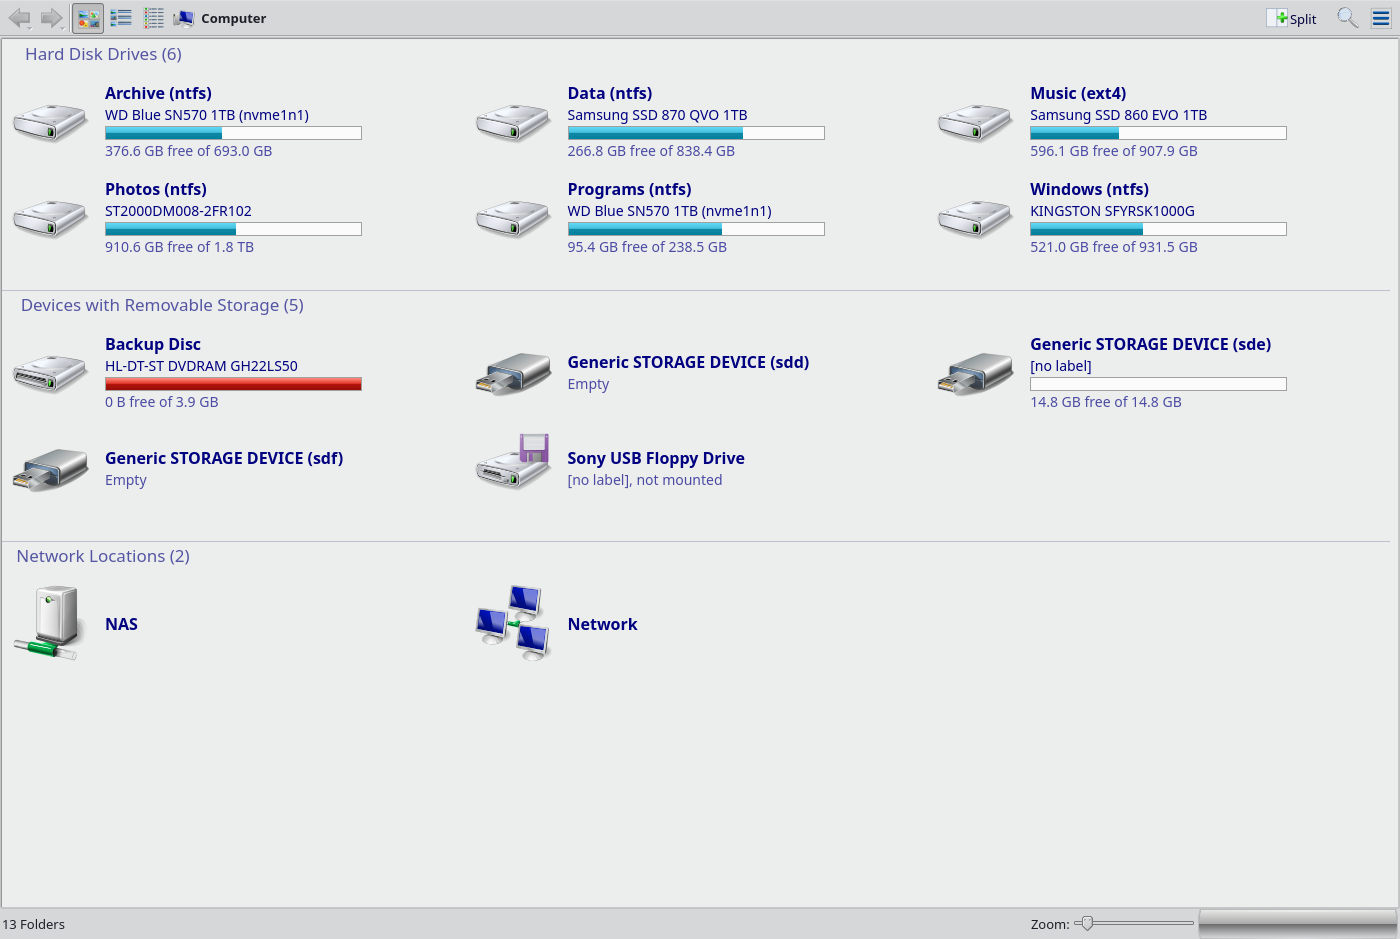
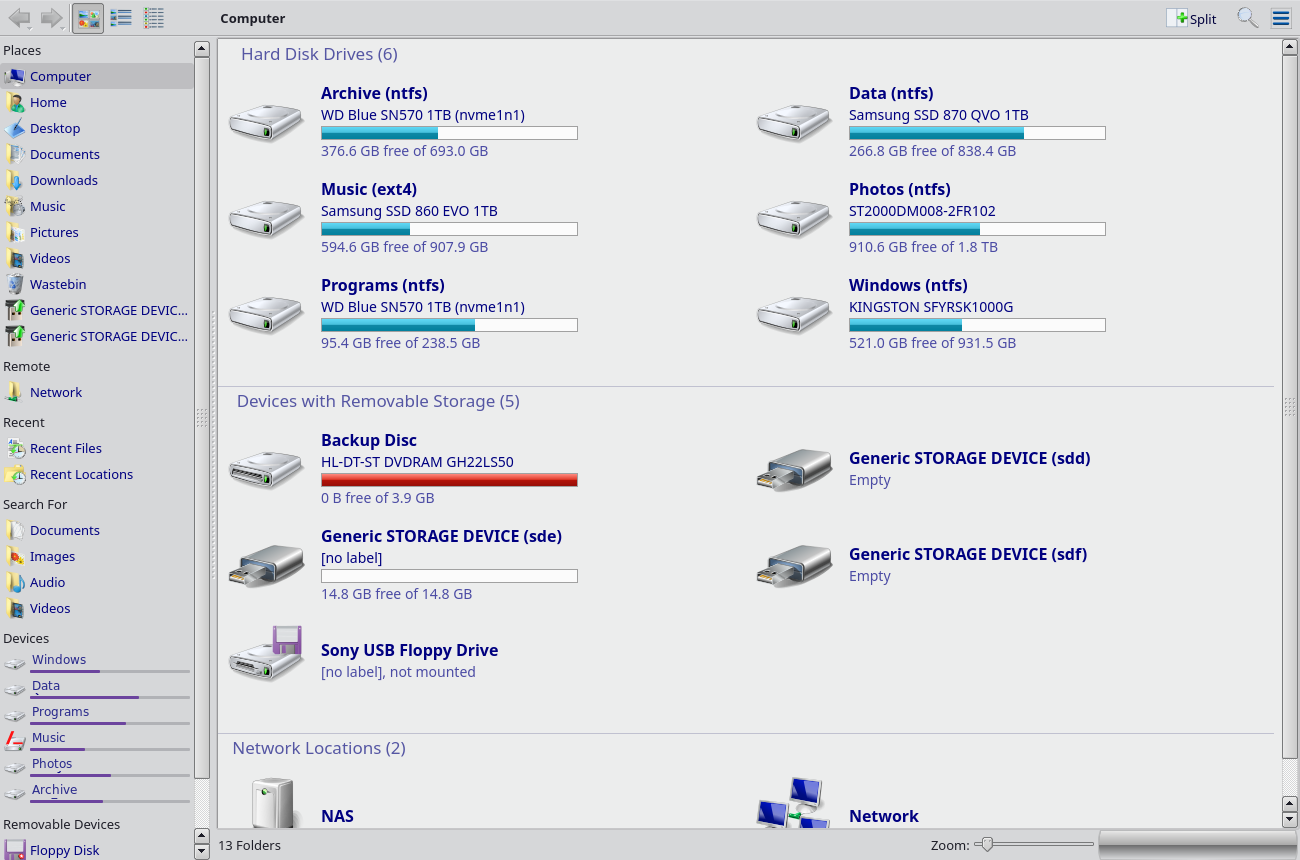
Credits corrected, and a screenshot that shows the panel
CREDITS. The licence section still said the icon theme was not redistributed
"for that reason" -- written before it was bundled, and simply untrue since.
It now names Blackcrack and CC BY-NC-SA, lists what was modified, and states
the two consequences that follow: this package may not be sold or bundled with
anything sold, and a modified icon set must carry the same licence.

SCREENSHOT. The old one had no places panel, because I had pressed F9 to keep
real drive labels out of the shot. The panel is the half that shows the
Explorer layout, so leaving it out sold the thing short. The new one has it,
with the volume names in the panel replaced to match the demo labels in the
view -- hardware names are untouched, since those are what is being shown.

PANEL VISIBILITY. exxos-theme-apply deliberately does nothing about it.
Dolphin shows the places panel by default, so a fresh install already has one;
it only disappears if somebody switches it off, and that is their choice to
keep. Deleting the [MainWindow] State blob was tried as a way to force it and
does not work -- measured, the panel stayed hidden -- while that blob also
holds the window size and toolbar layout, which people arrange on purpose.

Claude-Session: https://claude.ai/code/session_01WwT7Stb8oxjLjgf39dQbyM

diff --git a/src/exxosversion.h b/src/exxosversion.h
@@ -5,5 +5,5 @@
  */
 #ifndef EXXOSVERSION_H
 #define EXXOSVERSION_H
-#define EXXOS_EDITION_VERSION "1.5.1"
+#define EXXOS_EDITION_VERSION "1.5.2"
 #endif

diff --git a/README.md b/README.md
@@ -153,10 +153,23 @@ here — see `THEME-LOG.md`.
 
 ## Credits and licence
 
-Dolphin is by the KDE community, GPL-2.0-or-later; the patches keep that
-licence. The Windows 7 artwork is other people's work, collected from the KDE
-store — it is used here, not authored here, and the icon theme in particular
-is not redistributed for that reason.
+**Dolphin** is by the KDE community, GPL-2.0-or-later. The patches here keep
+that licence.
+
+**The icon theme** is by **Blackcrack** (<https://www.blackysgate.de>), licensed
+**CC BY-NC-SA** — Attribution, NonCommercial, ShareAlike. It is redistributed
+here under those terms: the author is credited, the licence is unchanged, and
+the theme's own `COPYING`, `AUTHORS` and `Readme.md` ship inside it. Two
+consequences follow and are worth stating plainly — this package **may not be
+sold**, or bundled with anything sold, and anyone redistributing a modified
+icon set must do so under the same licence.
+
+Modifications made to it: a handful of icons containing embedded bitmap images
+were dropped for size, editor metadata was stripped, and leftover files from
+this machine's own repairs were removed. No artwork was redrawn.
+
+**The window decorations, Plasma theme and colour scheme** were collected from
+the KDE store and are used here, not authored here.
 
 Windows and Windows 7 are trademarks of Microsoft Corporation. This project is
 not connected with Microsoft in any way; it reproduces the *behaviour* people
